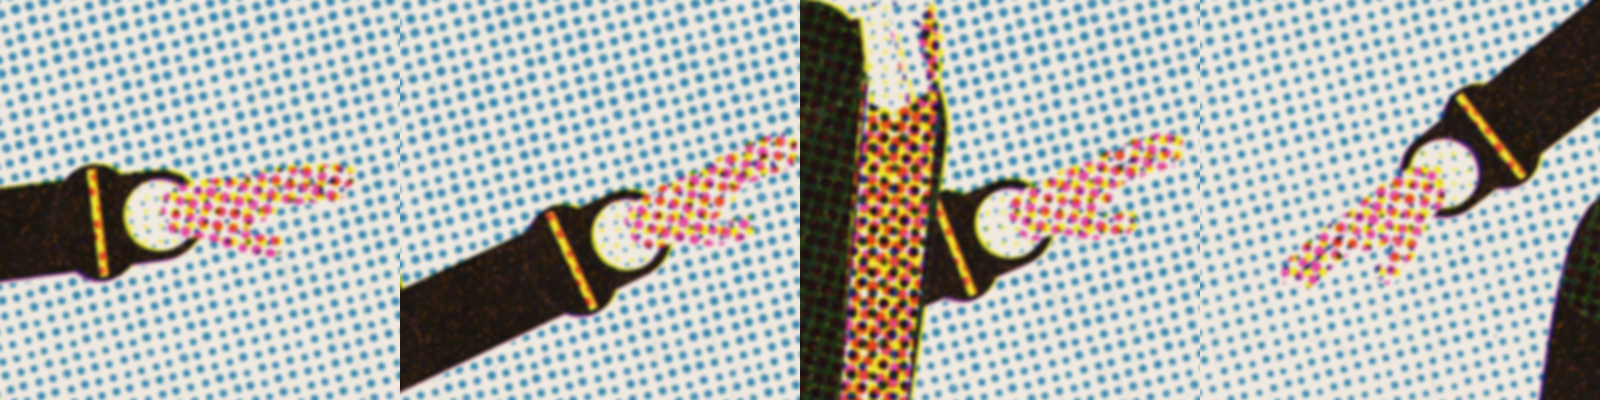
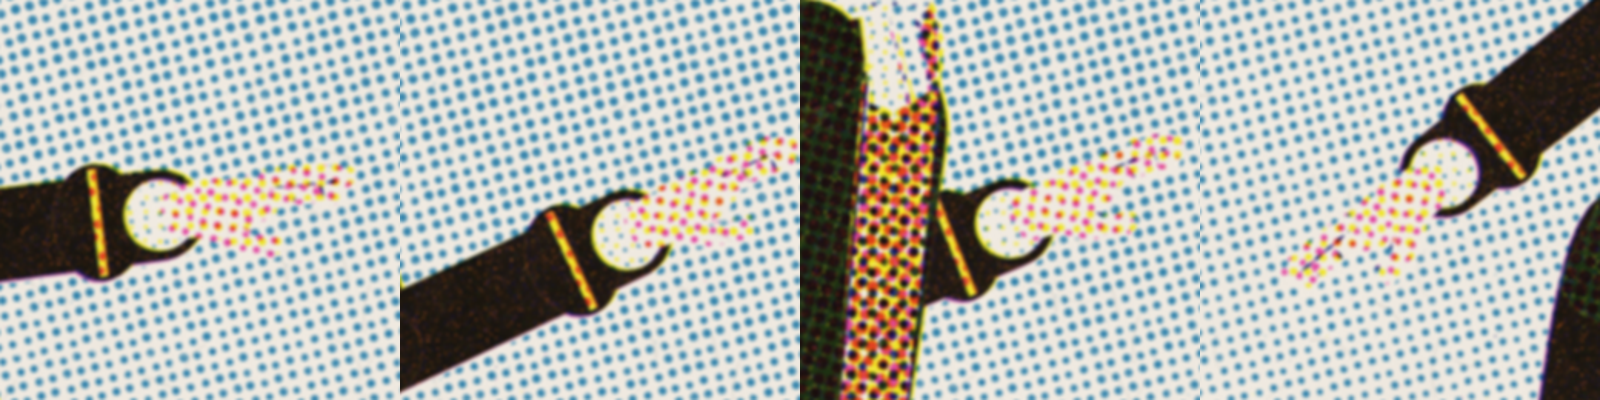
physics-history: Newton's open far hand in skin, not shade
Claude-Session: https://claude.ai/code/session_01FbC8jfwG91neyKwZD6gkGH

diff --git a/sandbox/2026-09-25-physics-history/figure.js b/sandbox/2026-09-25-physics-history/figure.js
@@ -377,7 +377,7 @@ const Fig = (() => {
             // pressing on the knee to get up: the palm on it, the fingers forward and down over it
             else if (grip === 'knee') backHand(press, wr, Math.atan2(0.55, f), 0.72 * u, far ? SKIN_SH : SKIN, SKIN_SH);
             // open and reaching: seen from its thumb side, the thumb down
-            else if (grip === 'open') openSide(press, add(wr, Math.cos(cd) * 0.1 * u, Math.sin(cd) * 0.1 * u), cd, 0.8 * u, far ? SKIN_SH : SKIN, [0, 1]); // from the ruffle's edge
+            else if (grip === 'open') openSide(press, add(wr, Math.cos(cd) * 0.1 * u, Math.sin(cd) * 0.1 * u), cd, 0.8 * u, { 'yellow.s': 0.2, 'pink.s': 0.16 }, [0, 1]); // skin, a touch warmer than the near hand so it reads against the pale sky // from the ruffle's edge
             else if (grip === 'relax') backHand(press, wr, cd + 0.12 * f, 0.72 * u, far ? SKIN_SH : SKIN, SKIN_SH);
             else if (grip === 'apple' && !far && o.held) held = holdApple(press, wr, cd, f, o.heldR ?? 30, SKIN, SKIN_SH, o.held, o.heldMode, o.heldAt);
             else hand(press, add(wr, Math.cos(cd) * 0.08 * u, Math.sin(cd) * 0.08 * u), cd, grip, 0.62 * u, far ? SKIN_SH : SKIN, SKIN_SH, LINE, f);
